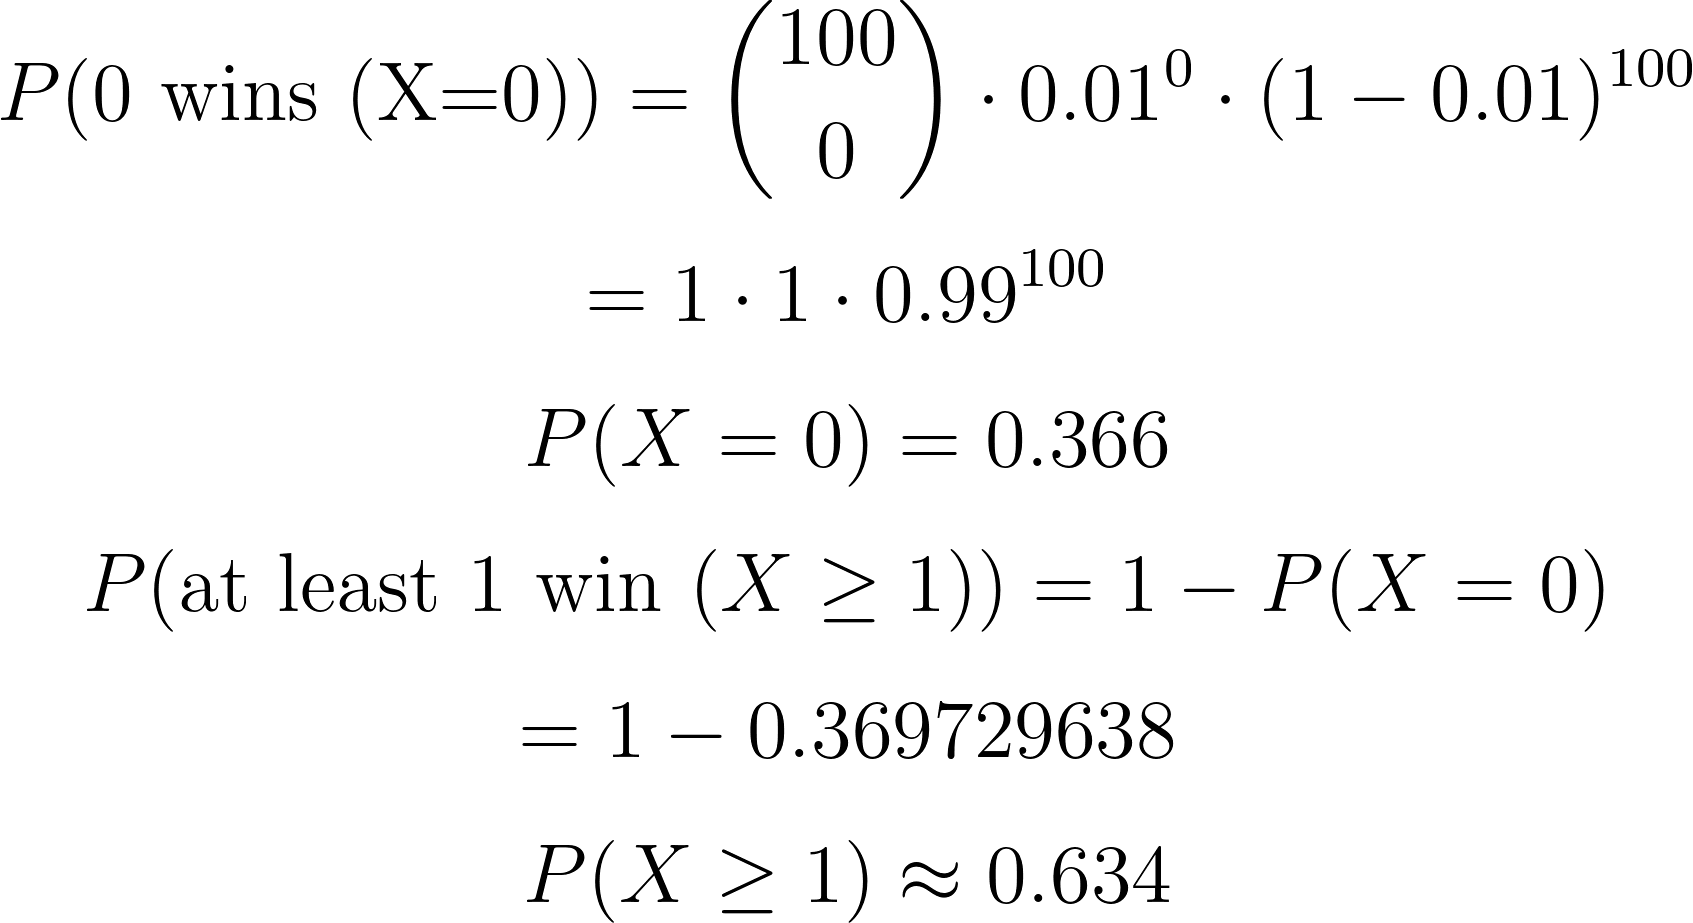
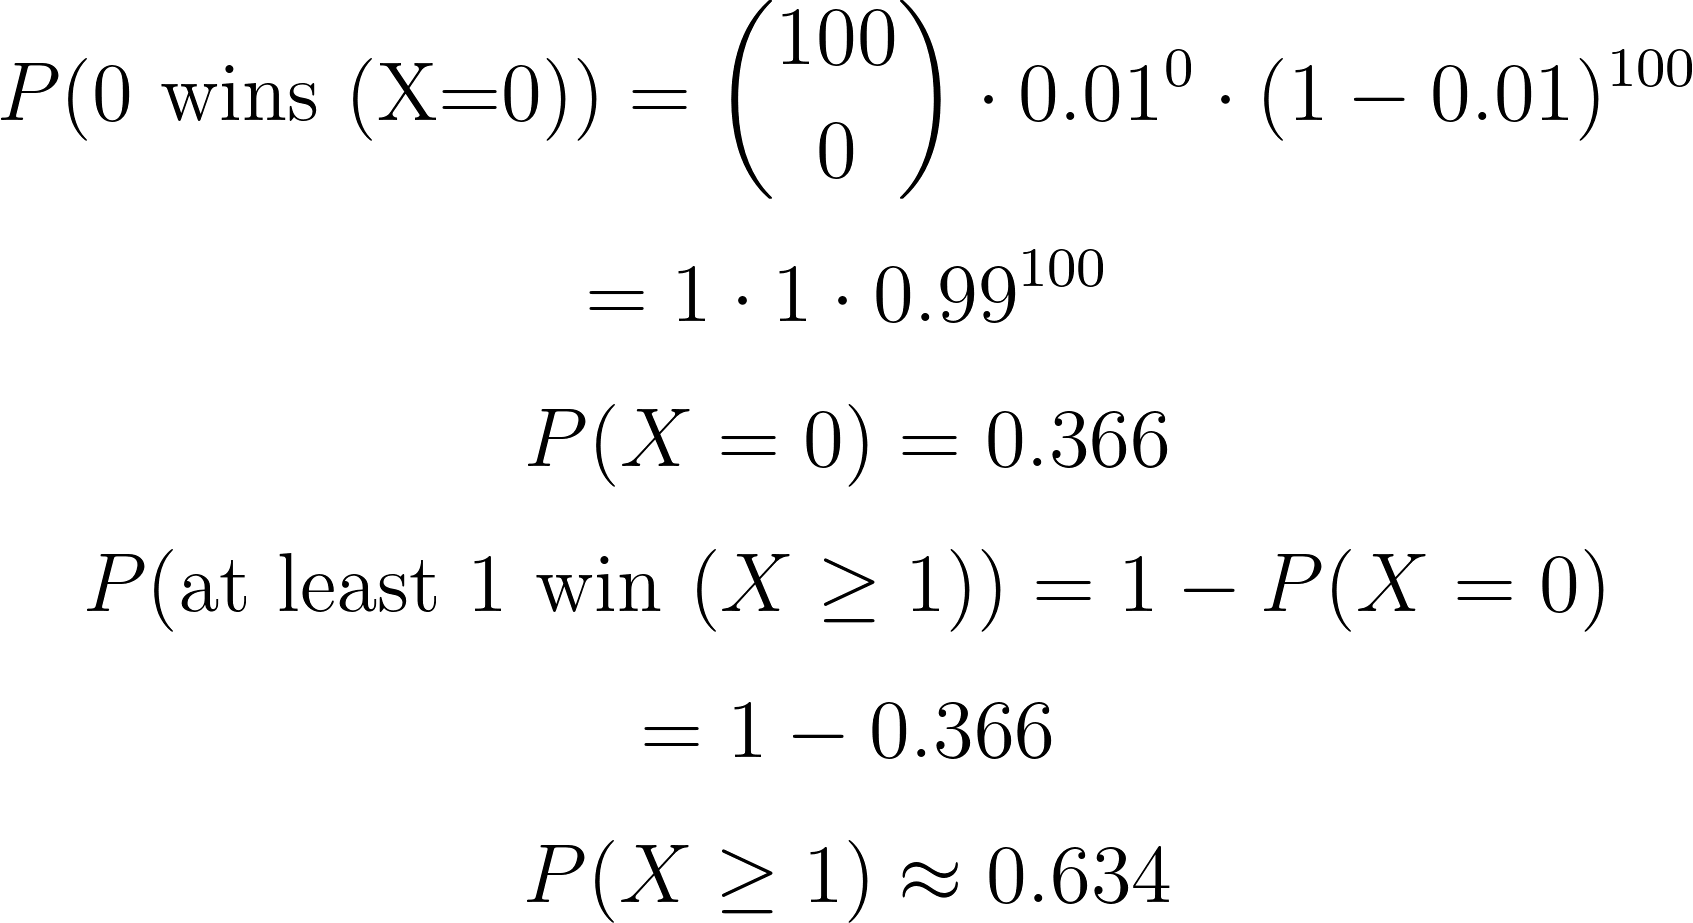
Thu May  1 01:22:56 PM CEST 2025

Changed region(s): [[0.3686, 0.7584, 0.7064, 0.8191], [0.3071, 0.7887, 0.3379, 0.8191]]

diff --git a/binomial.tex b/binomial.tex
@@ -16,7 +16,7 @@ P(X=0)= 0.366
 P(\text{at least }1 \text{ win (}X \ge 1\text{)}) = 1 - P(X = 0)
 \]
 \[
-= 1 - 0.369729638
+= 1 - 0.366
 \]
 \[
 P(X \ge 1 ) \approx 0.634

diff --git a/README.md b/README.md
@@ -1,6 +1,6 @@
 # Usage
 ```bash
-./tex2png {file}.text
+./tex2png {file}.tex
 ```
 
 TODO [], use a docker image in "tex2png", not the binaries
